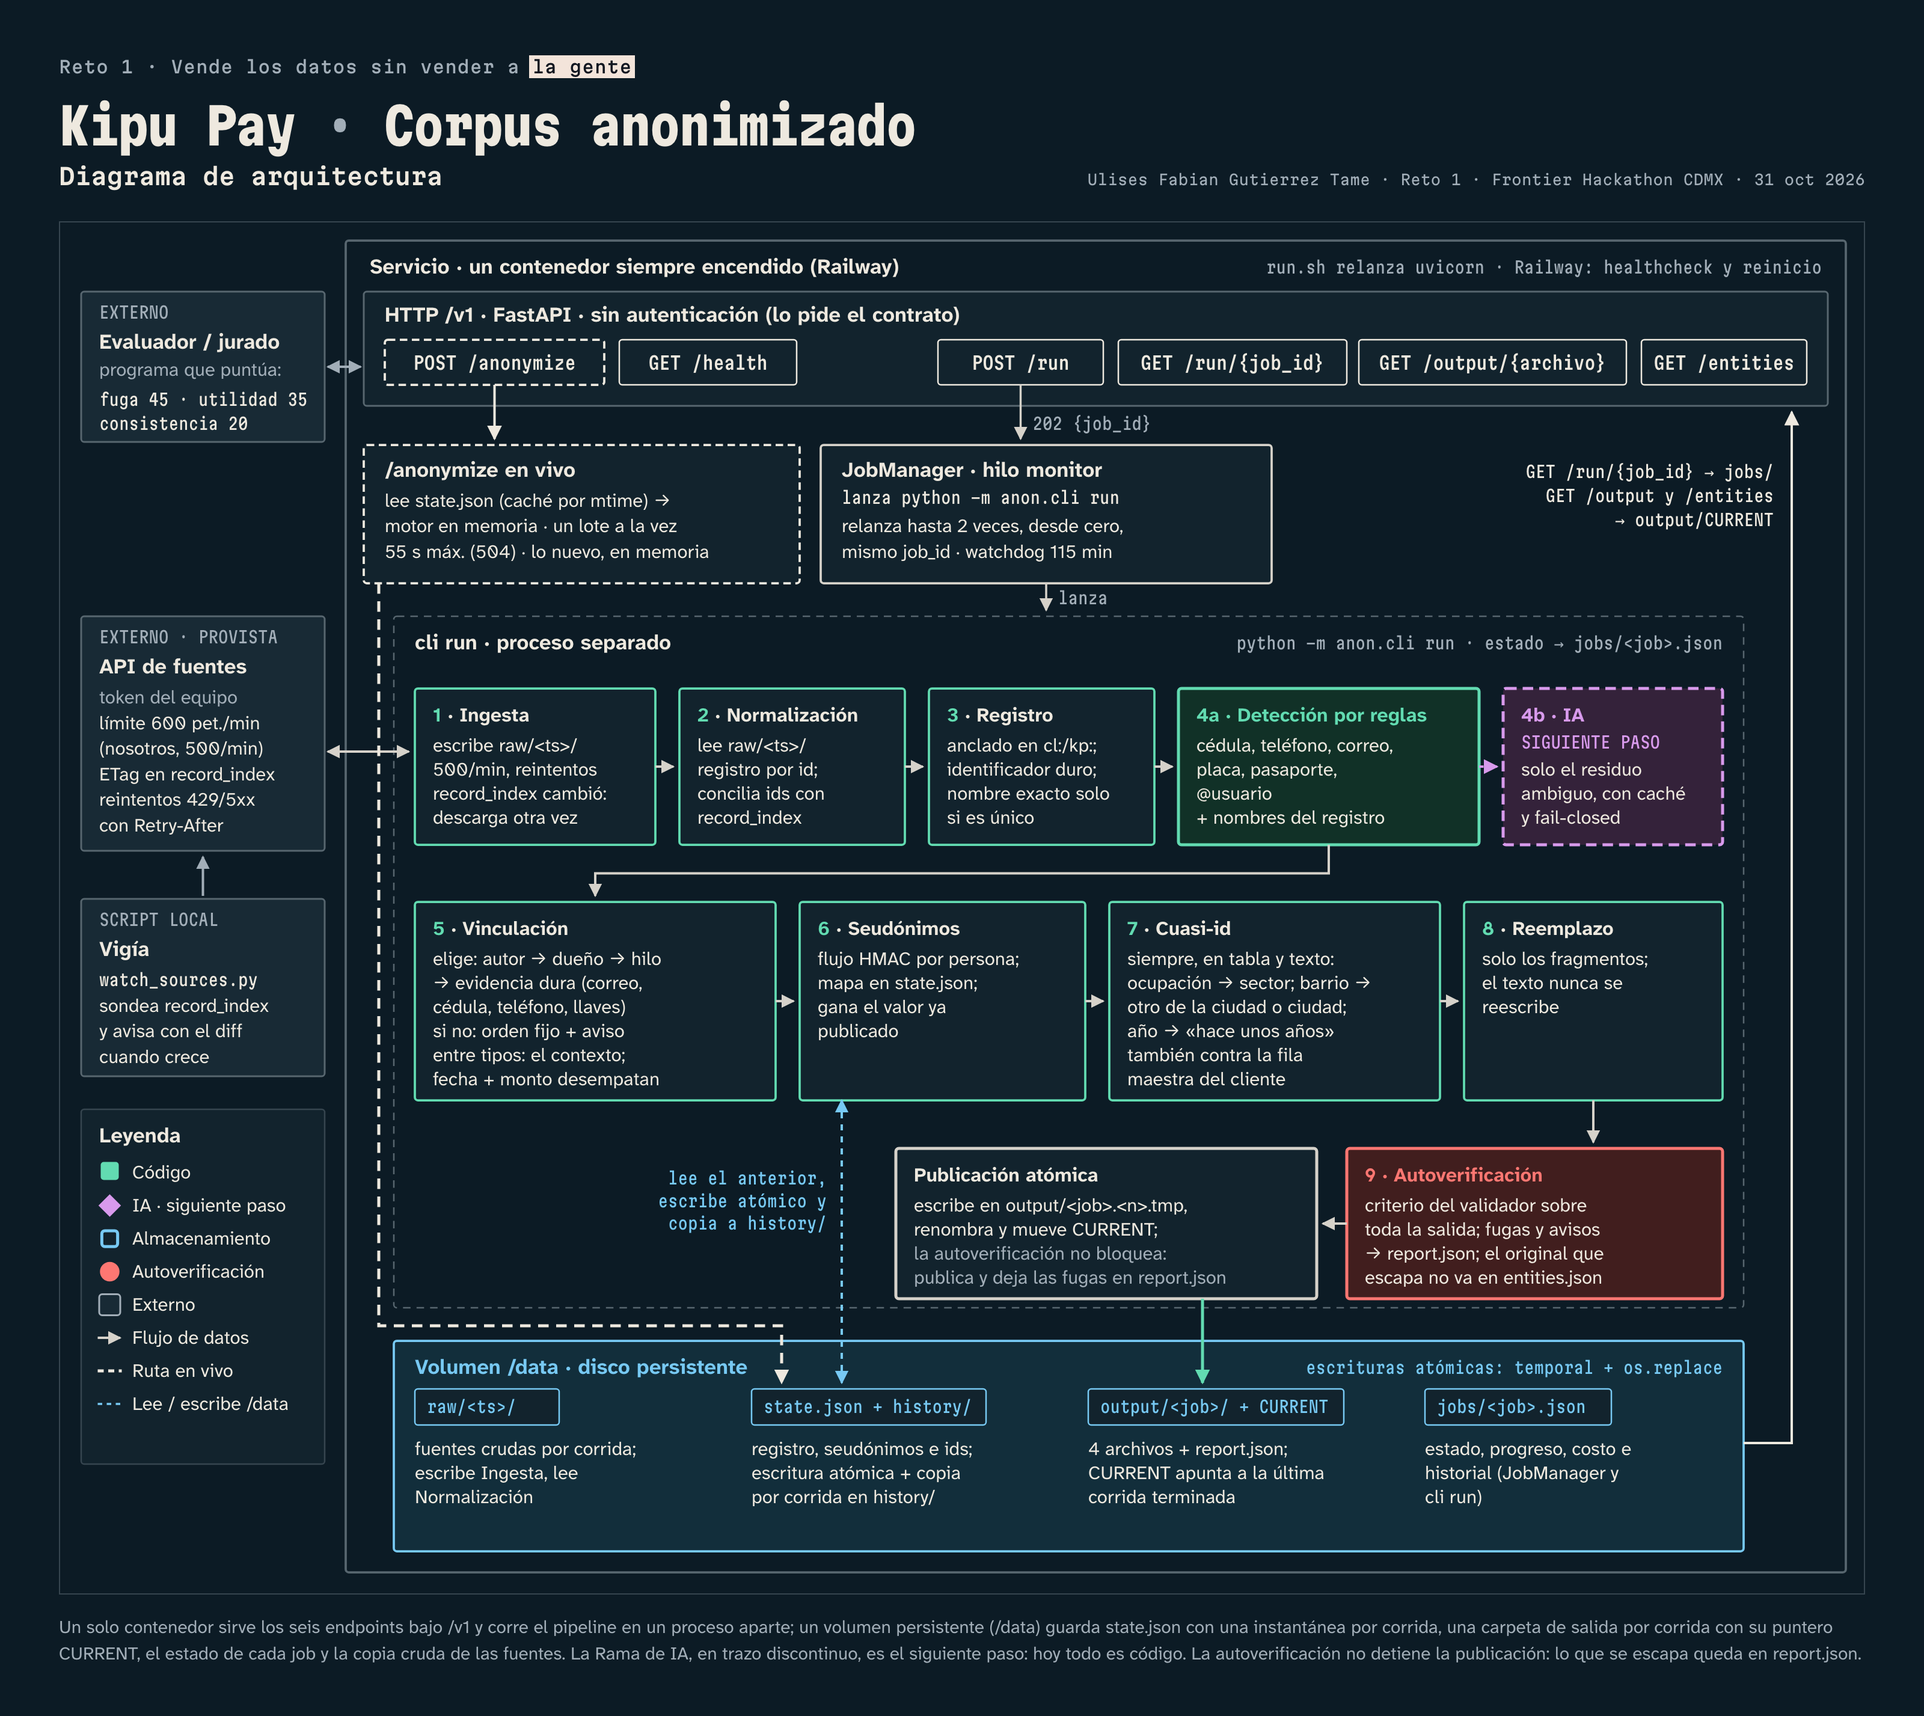
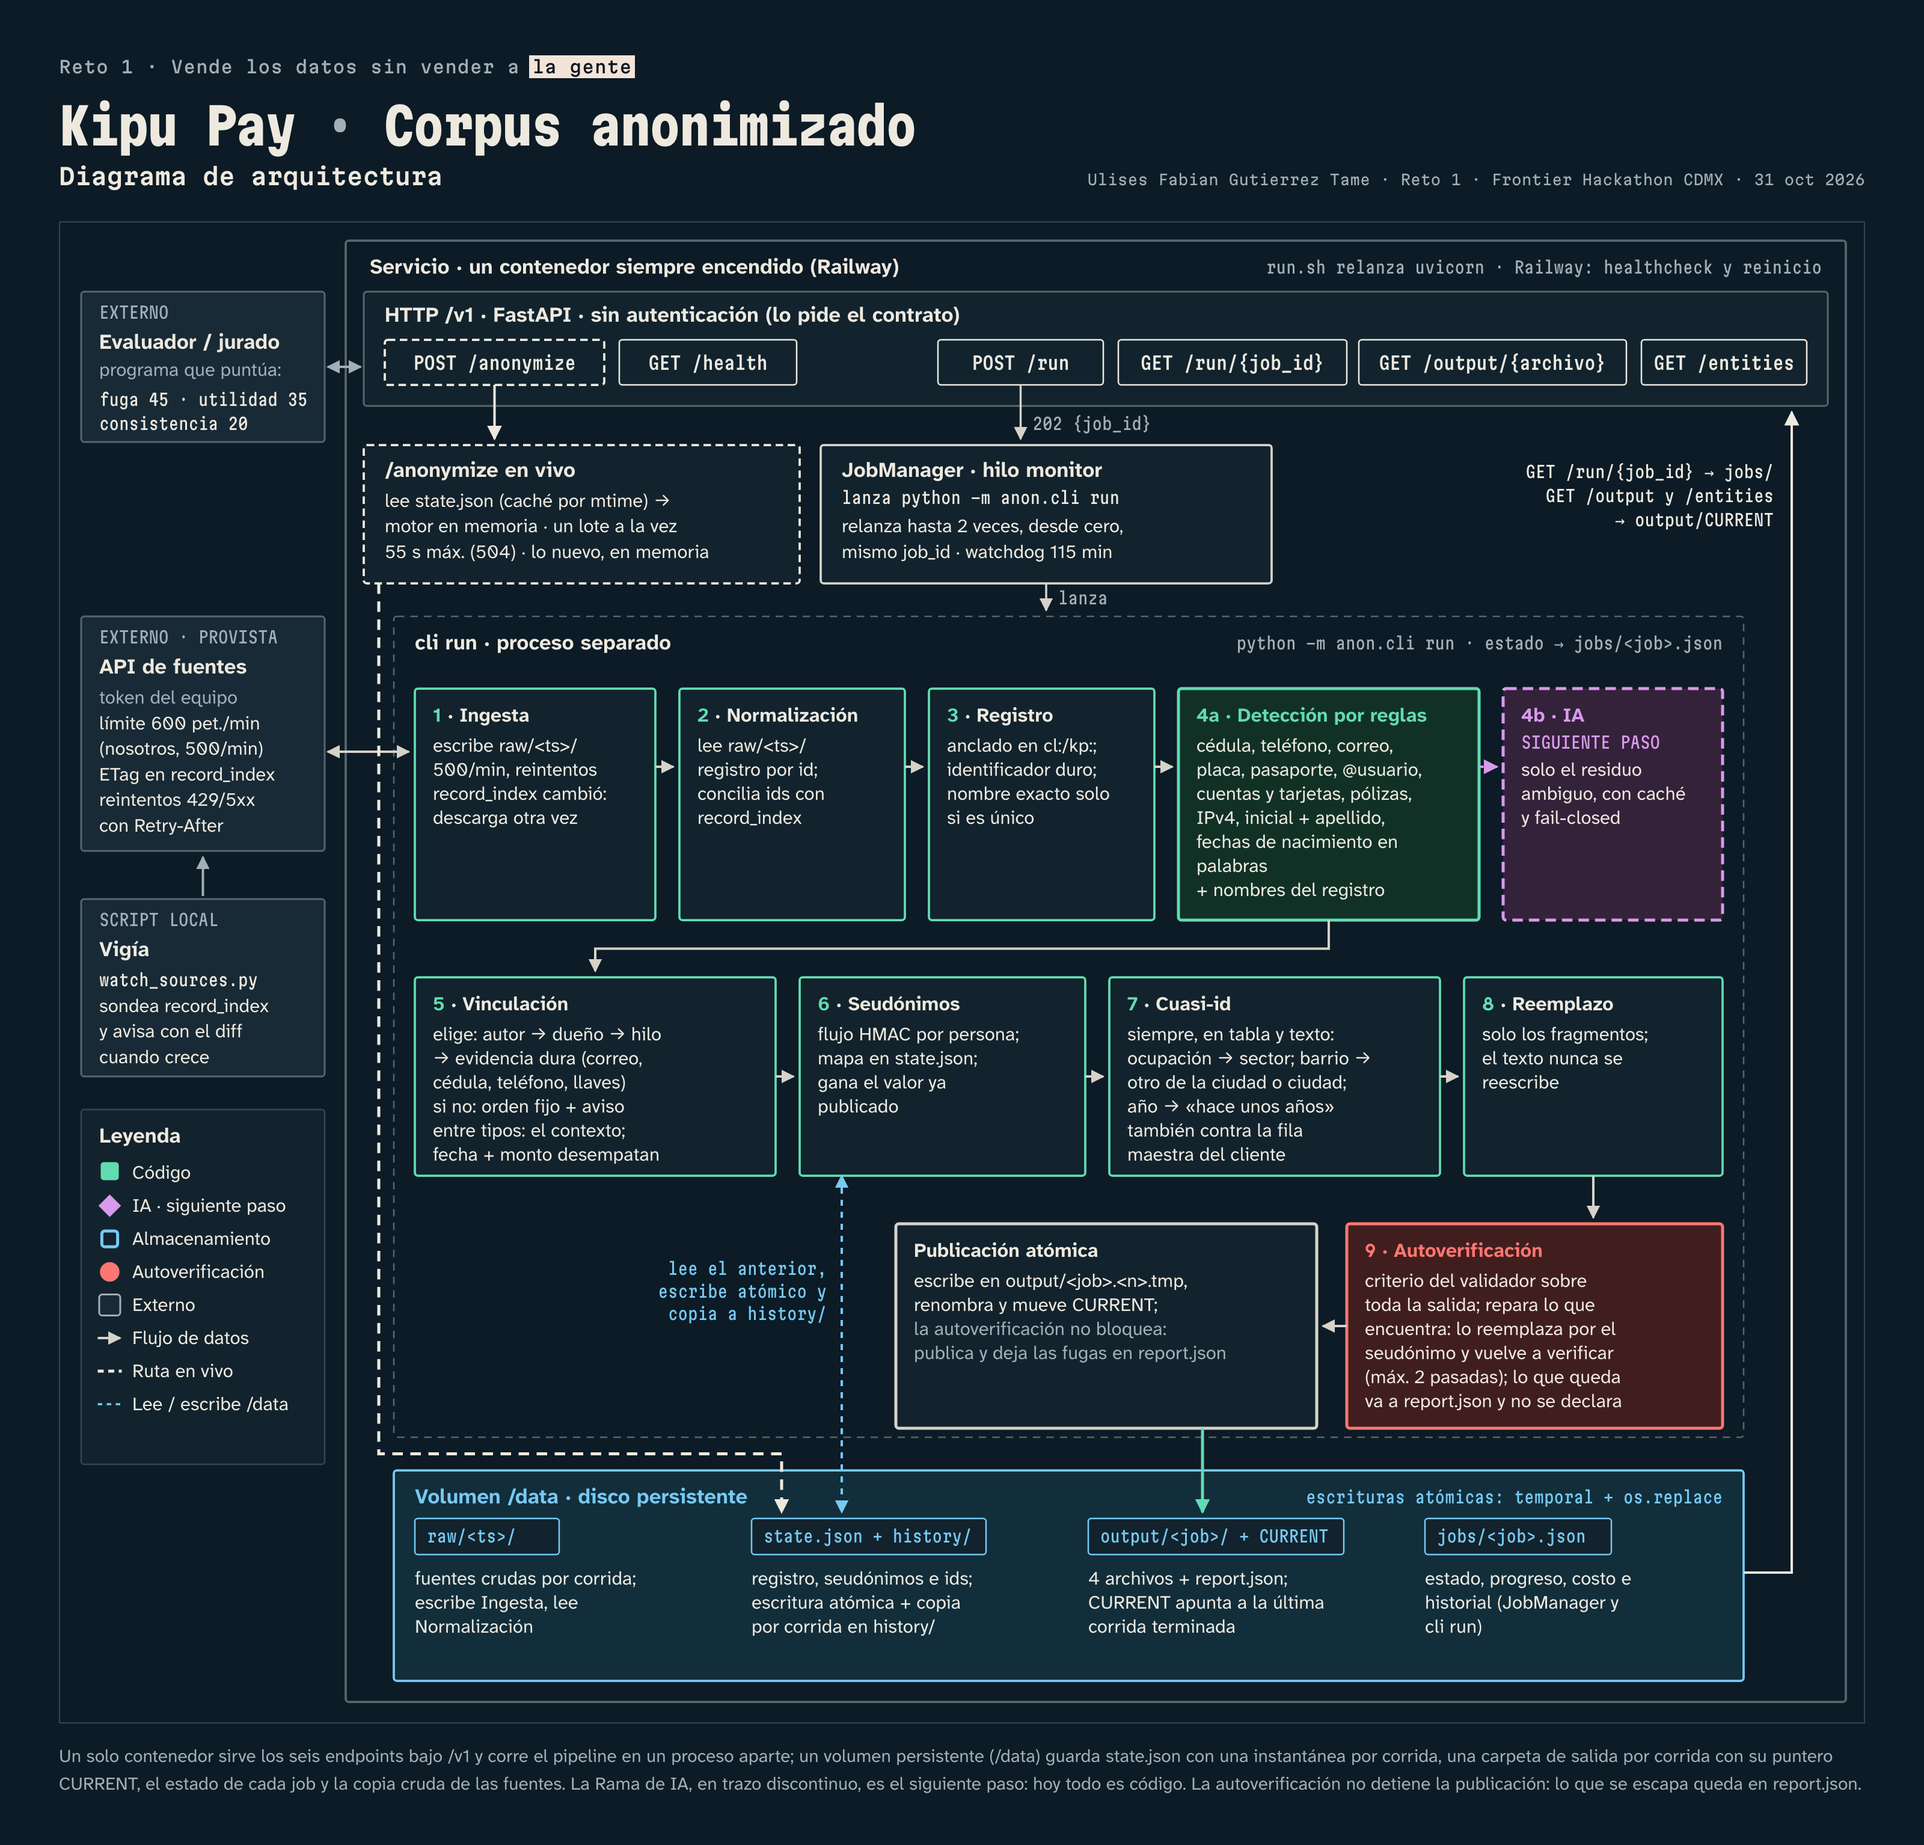
docs: show the final detectors and the repair step in the diagram

diff --git a/design-site/arquitectura/index.html b/design-site/arquitectura/index.html
@@ -30,7 +30,7 @@
 <figure class="diagram">
 <p class="hint">Desliza horizontalmente para ver el diagrama completo.</p>
 <div class="scroll">
-<svg id="diagrama" class="dg" viewBox="0 0 1200 912" fill="#12161D" role="img" aria-labelledby="dg-title dg-desc" xmlns="http://www.w3.org/2000/svg">
+<svg id="diagrama" class="dg" viewBox="0 0 1200 998" fill="#12161D" role="img" aria-labelledby="dg-title dg-desc" xmlns="http://www.w3.org/2000/svg">
 <title id="dg-title">Arquitectura del servicio de anonimización del corpus de Kipu Pay, tal como está construido</title>
 <desc id="dg-desc">El evaluador llama a la API HTTP /v1. POST /run crea un job; el JobManager lanza el proceso cli run, lo relanza hasta 2 veces y lo corta a los 115 minutos. El proceso descarga las fuentes a raw/, normaliza, arma el registro de personas, detecta con reglas (la rama de IA es el siguiente paso), vincula menciones, asigna seudónimos con HMAC y state.json, generaliza cuasi-identificadores, reemplaza fragmentos, se autoverifica y publica de forma atómica en output/ con el puntero CURRENT. /anonymize en vivo lee state.json. Un vigía local compara record_index.</desc>
 <!--
@@ -59,7 +59,7 @@
 <marker id="ah-acc" viewBox="0 0 10 10" refX="9" refY="5" markerWidth="10" markerHeight="10" markerUnits="userSpaceOnUse" orient="auto-start-reverse"><path d="M0,0L10,5L0,10z" fill="#1F3FBF"/></marker>
 <marker id="ah-store" viewBox="0 0 10 10" refX="9" refY="5" markerWidth="9" markerHeight="9" markerUnits="userSpaceOnUse" orient="auto-start-reverse"><path d="M0,0L10,5L0,10z" fill="#3B5B8C"/></marker>
 </defs>
-<rect id="fondo" x="0" y="0" width="1200" height="912" fill="#FFFFFF"/>
+<rect id="fondo" x="0" y="0" width="1200" height="998" fill="#FFFFFF"/>
 
 <!-- ===================== ACTORES EXTERNOS ===================== -->
 <g id="actor-evaluador" transform="translate(14 46)">
@@ -107,7 +107,7 @@
 
 <!-- ===================== SERVICIO (contenedor siempre encendido) ===================== -->
 <g id="servicio">
-  <rect class="caja-servicio" x="190" y="12" width="998" height="886" rx="14" fill="#FFFFFF" stroke="#5A6371" stroke-width="1.5"/>
+  <rect class="caja-servicio" x="190" y="12" width="998" height="972" rx="14" fill="#FFFFFF" stroke="#5A6371" stroke-width="1.5"/>
   <text x="206" y="34" class="t">Servicio · un contenedor siempre encendido (Railway)</text>
   <text x="1172" y="34" text-anchor="end" class="s" fill="#5A6371">run.sh relanza uvicorn · Railway: healthcheck y reinicio</text>
 </g>
@@ -147,13 +147,13 @@
 
 <!-- ===================== PROCESO cli run (pipeline) ===================== -->
 <g id="cli-run" transform="translate(222 262)">
-  <rect class="caja-job" width="898" height="460" rx="10" fill="#F6F7F9" stroke="#5A6371" stroke-dasharray="5 4"/>
+  <rect class="caja-job" width="898" height="546" rx="10" fill="#F6F7F9" stroke="#5A6371" stroke-dasharray="5 4"/>
   <text x="14" y="22" class="t">cli run · proceso separado</text>
   <text x="884" y="22" text-anchor="end" class="s" fill="#5A6371">python -m anon.cli run · estado → jobs/&lt;job&gt;.json</text>
 </g>
 
 <g id="etapa-1-ingesta" transform="translate(236 310)">
-  <rect class="caja-codigo" width="160" height="104" rx="8" fill="#FFFFFF" stroke="#0E7C66" stroke-width="1.5"/>
+  <rect class="caja-codigo" width="160" height="154" rx="8" fill="#FFFFFF" stroke="#0E7C66" stroke-width="1.5"/>
   <text x="12" y="22" class="t13"><tspan fill="#0E7C66">1</tspan> · Ingesta</text>
   <text x="12" y="42" class="d">escribe raw/&lt;ts&gt;/</text>
   <text x="12" y="58" class="d">500/min, reintentos</text>
@@ -161,7 +161,7 @@
   <text x="12" y="90" class="d">descarga otra vez</text>
 </g>
 <g id="etapa-2-normalizacion" transform="translate(412 310)">
-  <rect class="caja-codigo" width="150" height="104" rx="8" fill="#FFFFFF" stroke="#0E7C66" stroke-width="1.5"/>
+  <rect class="caja-codigo" width="150" height="154" rx="8" fill="#FFFFFF" stroke="#0E7C66" stroke-width="1.5"/>
   <text x="12" y="22" class="t13"><tspan fill="#0E7C66">2</tspan> · Normalización</text>
   <text x="12" y="42" class="d">lee raw/&lt;ts&gt;/</text>
   <text x="12" y="58" class="d">registro por id;</text>
@@ -169,7 +169,7 @@
   <text x="12" y="90" class="d">record_index</text>
 </g>
 <g id="etapa-3-registro" transform="translate(578 310)">
-  <rect class="caja-codigo" width="150" height="104" rx="8" fill="#FFFFFF" stroke="#0E7C66" stroke-width="1.5"/>
+  <rect class="caja-codigo" width="150" height="154" rx="8" fill="#FFFFFF" stroke="#0E7C66" stroke-width="1.5"/>
   <text x="12" y="22" class="t13"><tspan fill="#0E7C66">3</tspan> · Registro</text>
   <text x="12" y="42" class="d">anclado en cl:/kp:;</text>
   <text x="12" y="58" class="d">identificador duro;</text>
@@ -177,15 +177,18 @@
   <text x="12" y="90" class="d">si es único</text>
 </g>
 <g id="etapa-4a-reglas" transform="translate(744 310)">
-  <rect class="caja-codigo" width="200" height="104" rx="8" fill="#E8F4F1" stroke="#0E7C66" stroke-width="2"/>
+  <rect class="caja-codigo" width="200" height="154" rx="8" fill="#E8F4F1" stroke="#0E7C66" stroke-width="2"/>
   <text x="12" y="22" class="t13" fill="#0E7C66">4a · Detección por reglas</text>
   <text x="12" y="42" class="d">cédula, teléfono, correo,</text>
-  <text x="12" y="58" class="d">placa, pasaporte,</text>
-  <text x="12" y="74" class="d">@usuario</text>
-  <text x="12" y="90" class="d">+ nombres del registro</text>
+  <text x="12" y="58" class="d">placa, pasaporte, @usuario,</text>
+  <text x="12" y="74" class="d">cuentas y tarjetas, pólizas,</text>
+  <text x="12" y="90" class="d">IPv4, inicial + apellido,</text>
+  <text x="12" y="106" class="d">fechas de nacimiento en</text>
+  <text x="12" y="122" class="d">palabras</text>
+  <text x="12" y="138" class="d">+ nombres del registro</text>
 </g>
 <g id="etapa-4b-ia" transform="translate(960 310)">
-  <rect class="caja-ia" width="146" height="104" rx="8" fill="#FDF0E8" stroke="#C2410C" stroke-width="2" stroke-dasharray="7 4"/>
+  <rect class="caja-ia" width="146" height="154" rx="8" fill="#FDF0E8" stroke="#C2410C" stroke-width="2" stroke-dasharray="7 4"/>
   <text x="12" y="22" class="t13" fill="#C2410C">4b · IA</text>
   <text x="12" y="40" class="s" fill="#C2410C">SIGUIENTE PASO</text>
   <text x="12" y="58" class="d">solo el residuo</text>
@@ -193,7 +196,7 @@
   <text x="12" y="90" class="d">y fail-closed</text>
 </g>
 
-<g id="etapa-5-vinculacion" transform="translate(236 452)">
+<g id="etapa-5-vinculacion" transform="translate(236 502)">
   <rect class="caja-codigo" width="240" height="132" rx="8" fill="#FFFFFF" stroke="#0E7C66" stroke-width="1.5"/>
   <text x="12" y="22" class="t13"><tspan fill="#0E7C66">5</tspan> · Vinculación</text>
   <text x="12" y="42" class="d">elige: autor → dueño → hilo</text>
@@ -203,7 +206,7 @@
   <text x="12" y="106" class="d">entre tipos: el contexto;</text>
   <text x="12" y="122" class="d">fecha + monto desempatan</text>
 </g>
-<g id="etapa-6-seudonimos" transform="translate(492 452)">
+<g id="etapa-6-seudonimos" transform="translate(492 502)">
   <rect class="caja-codigo" width="190" height="132" rx="8" fill="#FFFFFF" stroke="#0E7C66" stroke-width="1.5"/>
   <text x="12" y="22" class="t13"><tspan fill="#0E7C66">6</tspan> · Seudónimos</text>
   <text x="12" y="42" class="d">flujo HMAC por persona;</text>
@@ -211,7 +214,7 @@
   <text x="12" y="74" class="d">gana el valor ya</text>
   <text x="12" y="90" class="d">publicado</text>
 </g>
-<g id="etapa-7-cuasi-id" transform="translate(698 452)">
+<g id="etapa-7-cuasi-id" transform="translate(698 502)">
   <rect class="caja-codigo" width="220" height="132" rx="8" fill="#FFFFFF" stroke="#0E7C66" stroke-width="1.5"/>
   <text x="12" y="22" class="t13"><tspan fill="#0E7C66">7</tspan> · Cuasi-id</text>
   <text x="12" y="42" class="d">siempre, en tabla y texto:</text>
@@ -221,7 +224,7 @@
   <text x="12" y="106" class="d">también contra la fila</text>
   <text x="12" y="122" class="d">maestra del cliente</text>
 </g>
-<g id="etapa-8-reemplazo" transform="translate(934 452)">
+<g id="etapa-8-reemplazo" transform="translate(934 502)">
   <rect class="caja-codigo" width="172" height="132" rx="8" fill="#FFFFFF" stroke="#0E7C66" stroke-width="1.5"/>
   <text x="12" y="22" class="t13"><tspan fill="#0E7C66">8</tspan> · Reemplazo</text>
   <text x="12" y="42" class="d">solo los fragmentos;</text>
@@ -229,16 +232,18 @@
   <text x="12" y="74" class="d">reescribe</text>
 </g>
 
-<g id="etapa-9-autoverificacion" transform="translate(856 616)">
-  <rect class="caja-control" width="250" height="100" rx="8" fill="#FCEDEC" stroke="#B42318" stroke-width="2"/>
+<g id="etapa-9-autoverificacion" transform="translate(856 666)">
+  <rect class="caja-control" width="250" height="136" rx="8" fill="#FCEDEC" stroke="#B42318" stroke-width="2"/>
   <text x="12" y="22" class="t13" fill="#B42318">9 · Autoverificación</text>
   <text x="12" y="42" class="d">criterio del validador sobre</text>
-  <text x="12" y="58" class="d">toda la salida; fugas y avisos</text>
-  <text x="12" y="74" class="d">→ report.json; el original que</text>
-  <text x="12" y="90" class="d">escapa no va en entities.json</text>
+  <text x="12" y="58" class="d">toda la salida; repara lo que</text>
+  <text x="12" y="74" class="d">encuentra: lo reemplaza por el</text>
+  <text x="12" y="90" class="d">seudónimo y vuelve a verificar</text>
+  <text x="12" y="106" class="d">(máx. 2 pasadas); lo que queda</text>
+  <text x="12" y="122" class="d">va a report.json y no se declara</text>
 </g>
-<g id="publicacion" transform="translate(556 616)">
-  <rect class="caja-salida" width="280" height="100" rx="8" fill="#FFFFFF" stroke="#12161D" stroke-width="2"/>
+<g id="publicacion" transform="translate(556 666)">
+  <rect class="caja-salida" width="280" height="136" rx="8" fill="#FFFFFF" stroke="#12161D" stroke-width="2"/>
   <text x="12" y="22" class="t13">Publicación atómica</text>
   <text x="12" y="42" class="d">escribe en output/&lt;job&gt;.&lt;n&gt;.tmp,</text>
   <text x="12" y="58" class="d">renombra y mueve CURRENT;</text>
@@ -247,7 +252,7 @@
 </g>
 
 <!-- ===================== VOLUMEN /data ===================== -->
-<g id="volumen-data" transform="translate(222 744)">
+<g id="volumen-data" transform="translate(222 830)">
   <rect class="caja-almacen" width="898" height="140" rx="10" fill="#EBF0F7" stroke="#3B5B8C" stroke-width="1.5"/>
   <text x="14" y="22" class="t" fill="#3B5B8C">Volumen /data · disco persistente</text>
   <text x="884" y="22" text-anchor="end" class="s" fill="#3B5B8C">escrituras atómicas: temporal + os.replace</text>
@@ -289,26 +294,26 @@
   <path id="f-2-3" d="M562 362H574" stroke="#12161D" stroke-width="1.6" marker-end="url(#ah)"/>
   <path id="f-3-4a" d="M728 362H740" stroke="#12161D" stroke-width="1.6" marker-end="url(#ah)"/>
   <path id="f-4a-4b" d="M944 362H956" stroke="#C2410C" stroke-width="1.6" stroke-dasharray="3 2" marker-end="url(#ah-ai)"/>
-  <path id="f-4a-5" d="M844 414V433H356V448" stroke="#12161D" stroke-width="1.6" marker-end="url(#ah)"/>
-  <path id="f-5-6" d="M476 518H488" stroke="#12161D" stroke-width="1.6" marker-end="url(#ah)"/>
-  <path id="f-6-7" d="M682 518H694" stroke="#12161D" stroke-width="1.6" marker-end="url(#ah)"/>
-  <path id="f-7-8" d="M918 518H930" stroke="#12161D" stroke-width="1.6" marker-end="url(#ah)"/>
-  <path id="f-8-9" d="M1020 584V612" stroke="#12161D" stroke-width="1.6" marker-end="url(#ah)"/>
-  <path id="f-9-publicacion" d="M856 666H840" stroke="#12161D" stroke-width="1.6" marker-end="url(#ah)"/>
-  <path id="f-publicacion-output" d="M760 716V772" stroke="#0E7C66" stroke-width="2" marker-end="url(#ah-code)"/>
-  <path id="f-lecturas-http" d="M1120 812H1152V126" stroke="#1F3FBF" stroke-width="1.6" marker-end="url(#ah-acc)"/>
+  <path id="f-4a-5" d="M844 464V483H356V498" stroke="#12161D" stroke-width="1.6" marker-end="url(#ah)"/>
+  <path id="f-5-6" d="M476 568H488" stroke="#12161D" stroke-width="1.6" marker-end="url(#ah)"/>
+  <path id="f-6-7" d="M682 568H694" stroke="#12161D" stroke-width="1.6" marker-end="url(#ah)"/>
+  <path id="f-7-8" d="M918 568H930" stroke="#12161D" stroke-width="1.6" marker-end="url(#ah)"/>
+  <path id="f-8-9" d="M1020 634V662" stroke="#12161D" stroke-width="1.6" marker-end="url(#ah)"/>
+  <path id="f-9-publicacion" d="M856 734H840" stroke="#12161D" stroke-width="1.6" marker-end="url(#ah)"/>
+  <path id="f-publicacion-output" d="M760 802V858" stroke="#0E7C66" stroke-width="2" marker-end="url(#ah-code)"/>
+  <path id="f-lecturas-http" d="M1120 898H1152V126" stroke="#1F3FBF" stroke-width="1.6" marker-end="url(#ah-acc)"/>
 </g>
 
 <!-- Ruta en vivo: /anonymize lee state.json (caché por mtime) -->
-<path id="ruta-en-vivo" d="M212 240V734H480V772" fill="none" stroke="#1F3FBF" stroke-width="2" stroke-dasharray="7 5" marker-end="url(#ah-acc)"/>
+<path id="ruta-en-vivo" d="M212 240V819H480V858" fill="none" stroke="#1F3FBF" stroke-width="2" stroke-dasharray="7 5" marker-end="url(#ah-acc)"/>
 
 <!-- Seudónimos ⇄ state.json: lee el anterior, escribe atómico, copia en history/ -->
 <g id="conectores-data">
-  <path d="M520 584V772" fill="none" stroke="#3B5B8C" stroke-width="1.6" stroke-dasharray="4 4" marker-start="url(#ah-store)" marker-end="url(#ah-store)"/>
+  <path d="M520 634V858" fill="none" stroke="#3B5B8C" stroke-width="1.6" stroke-dasharray="4 4" marker-start="url(#ah-store)" marker-end="url(#ah-store)"/>
   <g class="s" fill="#3B5B8C">
-    <text x="510" y="640" text-anchor="end">lee el anterior,</text>
-    <text x="510" y="655" text-anchor="end">escribe atómico y</text>
-    <text x="510" y="670" text-anchor="end">copia a history/</text>
+    <text x="510" y="700" text-anchor="end">lee el anterior,</text>
+    <text x="510" y="715" text-anchor="end">escribe atómico y</text>
+    <text x="510" y="730" text-anchor="end">copia a history/</text>
   </g>
 </g>
 
